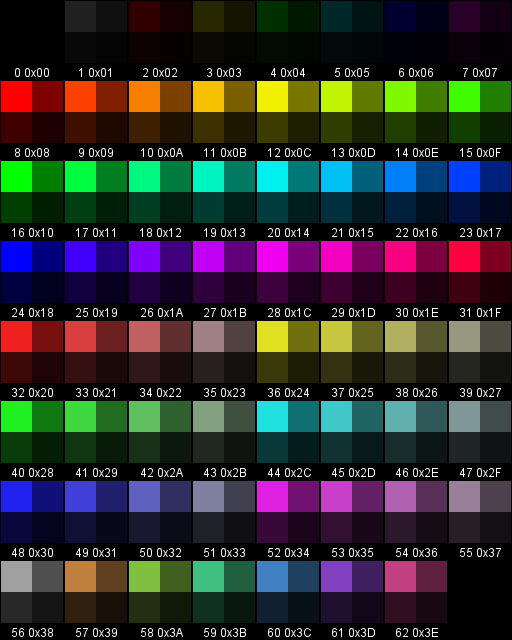
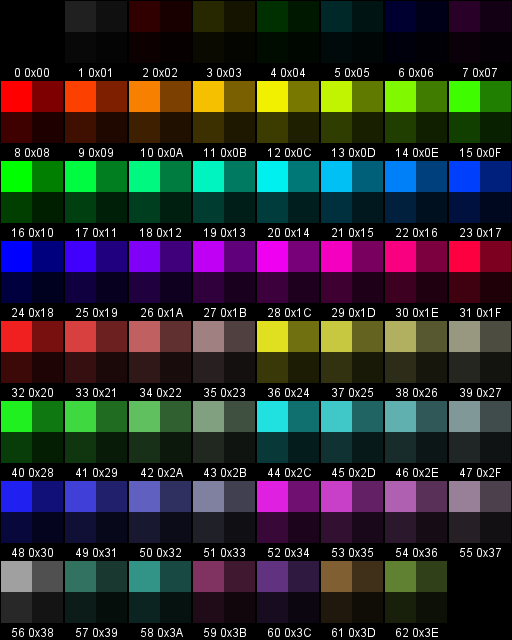
Fixed palette

Changed region(s): [[0.125, 0.875, 0.875, 1.0]]

diff --git a/images/img.py b/images/img.py
@@ -84,12 +84,12 @@ colors = [
 
     # whites
     (160, 160, 160),
-    (192, 128,  64),
-    (128, 192,  64),
-    ( 64, 192, 128),
-    ( 64, 128, 192),
-    (128,  64, 192),
-    (192,  64, 128),
+    ( 50, 114,  96),
+    ( 50, 147, 135),
+    (128,  50,  96),
+    ( 96,  50, 128),
+    (128,  96,  50),
+    ( 96, 128,  50),
 ]
 
 
